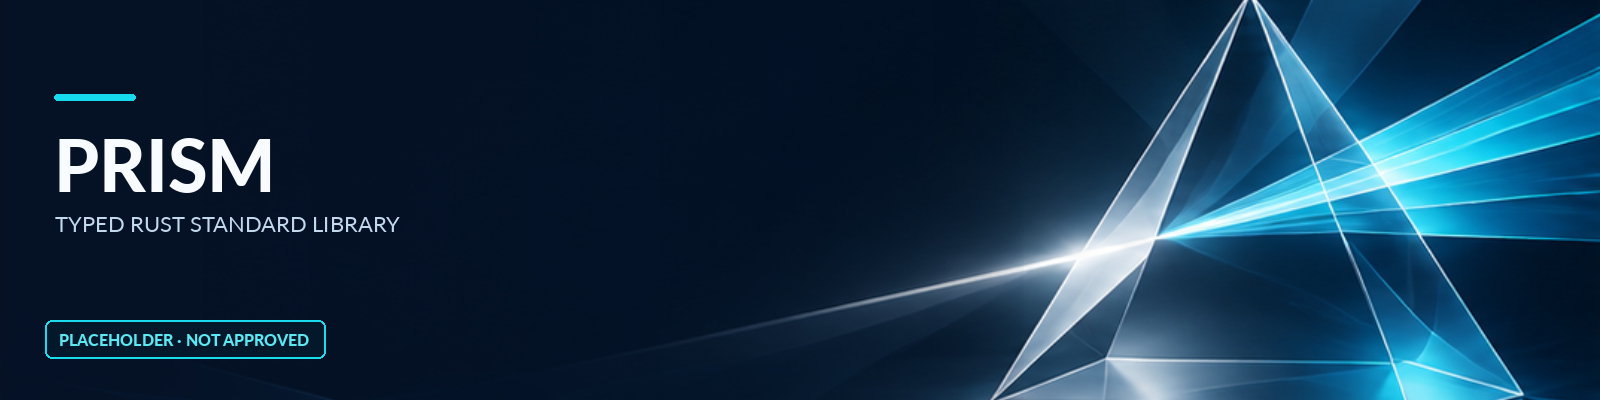
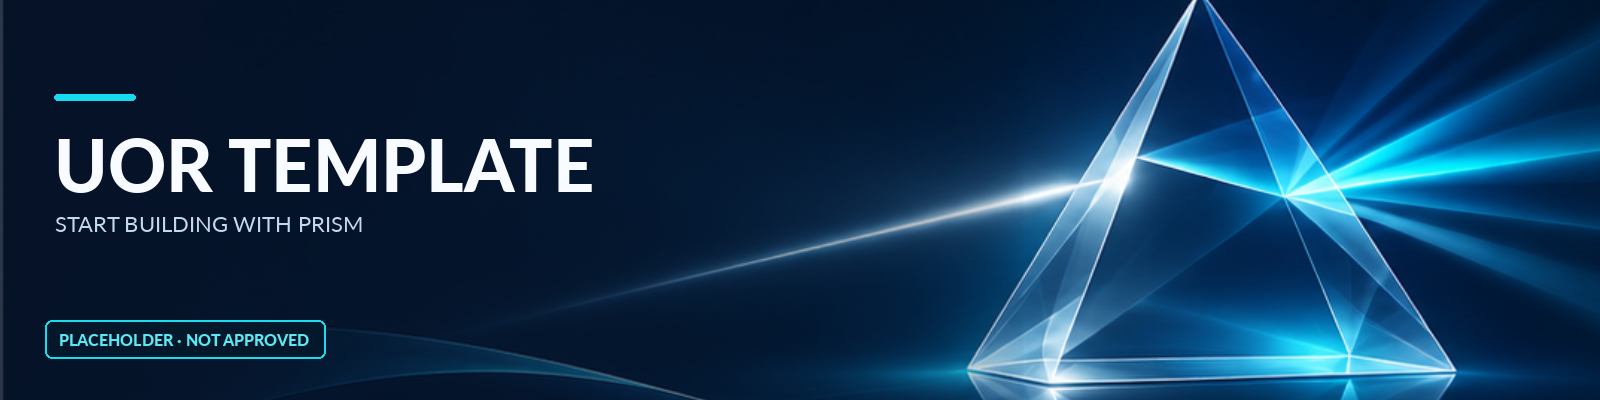
docs(readme): install original UOR Template placeholder PNG (#106)

diff --git a/README.md b/README.md
@@ -1,8 +1,8 @@
 <p align="center">
-  <img src="assets/readme-banner-PLACEHOLDER.png" alt="Prism placeholder illustration for the UOR Prism template, provisional and not brand-approved" width="100%">
+  <img src="assets/readme-banner-PLACEHOLDER.png" alt="UOR Template placeholder banner: start building with Prism, not approved" width="100%">
 </p>
 
-<p align="center"><em>Prism placeholder artwork; illustrative only, pending UOR Foundation brand approval.</em></p>
+<p align="center"><em>UOR Template placeholder artwork; illustrative only, pending UOR Foundation brand approval.</em></p>
 
 <p align="center">
   <a href="https://github.com/new?template_owner=UOR-Foundation&amp;template_name=template"><b>Use this template</b></a>
